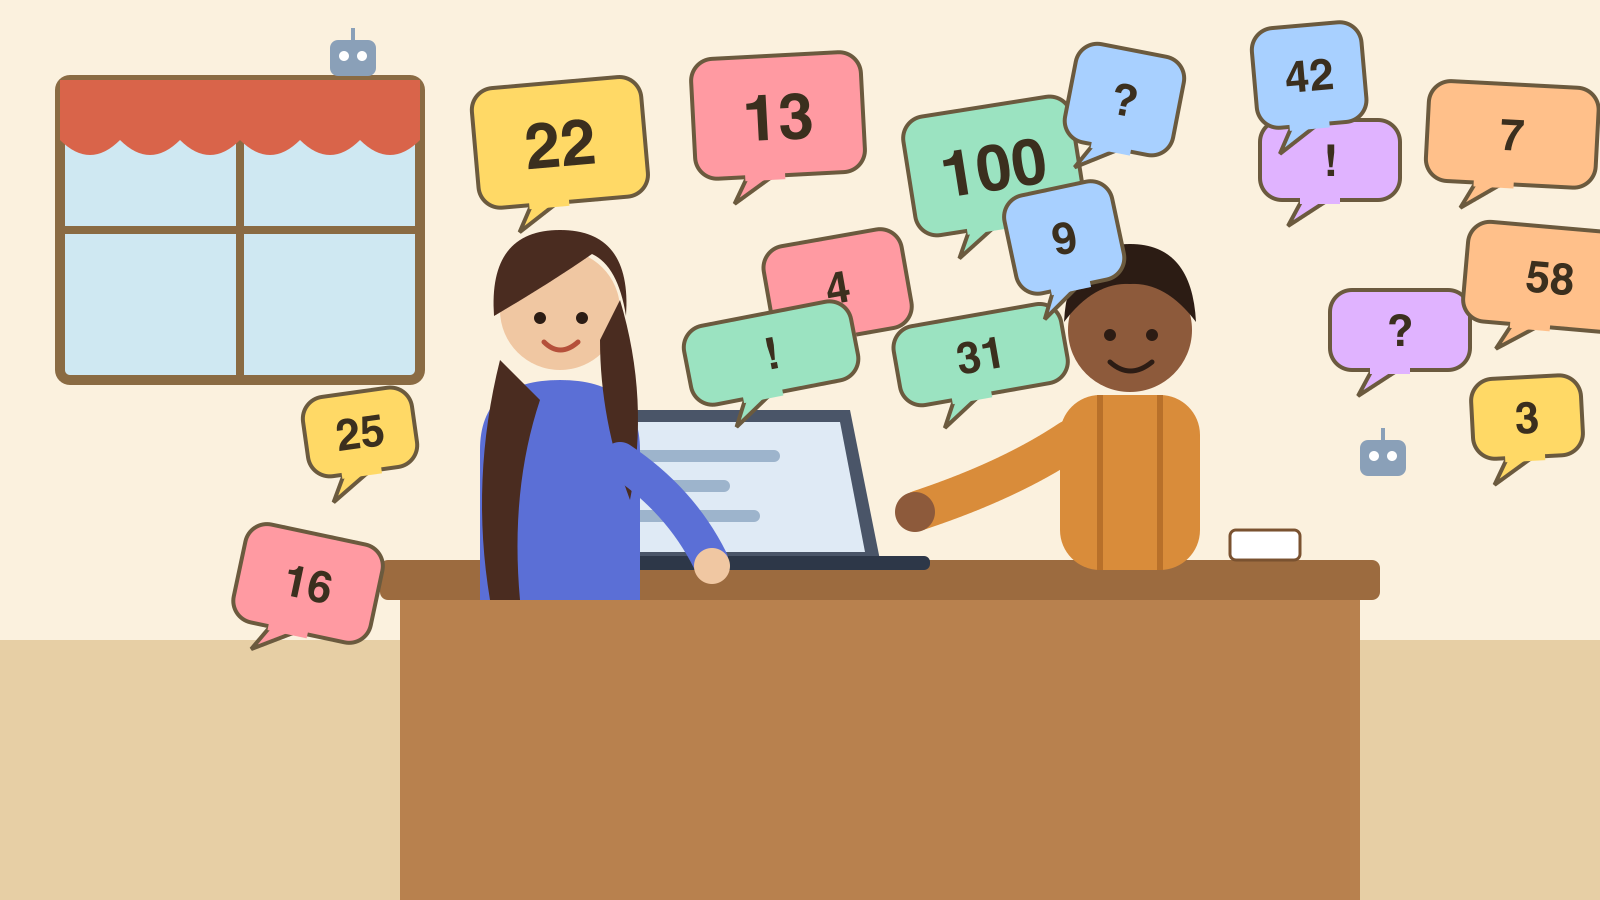
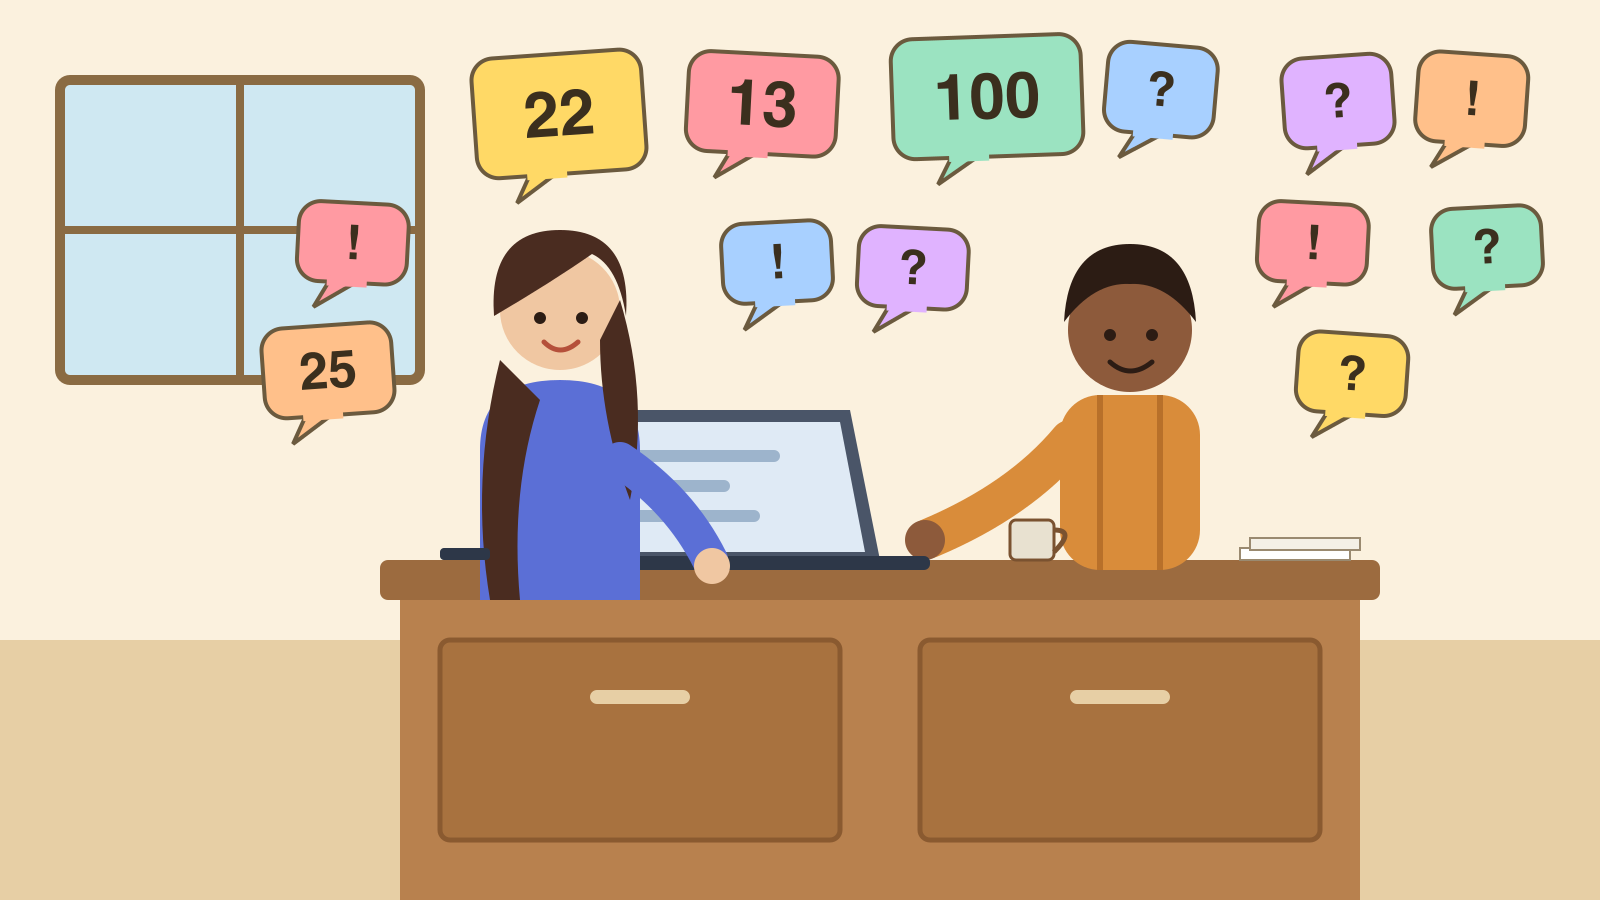
[new-article] Part 5: apply Fable review findings 1–11 (handoff 06)
Ref: ~/code/main/streams/new-article/handoffs/06-part-5-apply-fable-review.md

diff --git a/_posts/2026-10-12-modern-software-for-small-businesses-and-nonprofits-part-5-scope-creep-during-the-ai-age.md b/_posts/2026-10-12-modern-software-for-small-businesses-and-nonprofits-part-5-scope-creep-during-the-ai-age.md
@@ -16,11 +16,11 @@ tags:
   - human in the loop
   - ai-assisted development
 image: /images/modern-software-part5-scope-creep.png
-excerpt: "AI agents make it cheap to start things, and they ask a lot of questions along the way. I now have around 100 things going on in one project and I'm the non-technical people manager with nobody to manage. This is what scope creep looks like in the AI age, from two projects of my own."
+excerpt: "AI agents made it cheap to start things, so the list of things in flight grows faster than one person can follow. Two projects of my own, 22 then 13 then around 100 open items, and what I'm taking from it: name the problem, do fewer projects, stay in the details."
 ---
 
 <p class="align-center">
-  <img src="/images/modern-software-part5-scope-creep.png" alt="Illustration: a young woman engineer at a laptop working with a small-business owner at a shop counter, surrounded by a growing swarm of speech bubbles from AI agents carrying numbers like 22, 13 and 100" style="max-width: 100%; height: auto;" />
+  <img src="/images/modern-software-part5-scope-creep.png" alt="Illustration: a young woman engineer at a laptop working with a small-business owner at a desk, surrounded by a growing swarm of speech bubbles from AI agents carrying numbers like 22, 13 and 100" style="max-width: 100%; height: auto;" />
 </p>
 
 This is Part 5 of the [Modern Software for Small Businesses and Nonprofits](https://feroshjacob.github.io/series/modern-software-small-businesses-nonprofits/) series. This one is a personal reflection, not research.
@@ -29,13 +29,13 @@ AI agents made building software cheaper. They did not make keeping track of it 
 
 ## The short version
 
-AI agents ask good questions, build quickly and never get tired, so the number of things in flight grows faster than a person can follow. In both of my projects I ended up responsible for work I no longer understood in detail. I don't have a fix. I do think naming the problem is the first step.
+AI agents ask good questions, build quickly and never get tired, so the number of things in flight grows faster than a person can follow. In both projects the list of open items grew faster than my understanding of them, and I want to be closer to the details than I am. I don't have a fix yet. I do think naming the problem is the first step.
 
-## What happened when my agent kept asking questions?
+## Scenario 1: what happened when my agent kept asking the client questions?
 
 I was working with a client, and we made our first release. Along with the release notes, I had 22 questions that my Claude Code wanted to ask the client. I had inherited the codebase from another team, so there was a lot the agent could not know on its own.
 
-The client replied to all 22 questions, along with more comments and answers on the release. We both admitted that we use AI tools to draft our emails. To be honest, we were both proud of our AI usage.
+The client replied to all 22 questions, along with more comments and answers on the release. We both acknowledged that we use AI tools to draft our emails. To be honest, we were both proud of our AI usage.
 
 By release 2, Claude Code had 13 more questions, on top of the follow-up to the first 22. By then the agent was dominating my email.
 
@@ -47,15 +47,15 @@ In my previous careers, if we wanted to track 25 such things, I am sure we would
 
 Now it is me, an inbox and an agent.
 
-## What happened when I built an SEO tool with agents?
+## Scenario 2: what happened when I built an SEO tool with agents?
 
 I had this wonderful idea to build an SEO tool, the one I described in [Part 4](https://feroshjacob.github.io/posts/2026/10/05/modern-software-for-small-businesses-and-nonprofits-part-4-providing-affordable-seo-for-small-business-using-jev-part-1). It creates business profiles in a semi-automated fashion, to help small businesses have affordable SEO.
 
-As usual, I used my AI agents. I started with a $20 Codex subscription, which hit its limit about every 30 minutes, and ended up on my Claude $200 subscription. The agent built something, asked me questions with recommendations, and of course I went with them. Finally, we had an app running on my laptop.
+As usual, I used my AI agents. I started with a $20 Codex subscription, which, the way I was using it, hit its limit about every 30 minutes, and ended up on my Claude $200 subscription. The agent built something, asked me questions with recommendations, and of course I went with them. Finally, we had an app running on my laptop.
 
 Then I had a problem. First, I didn't know how to use it. When I clicked a button, I didn't know whether the button was broken or was not supposed to work yet. Agents also sometimes won't build, even when you say "build it". They may need another "go".
 
-And since I was busy building many things, I had no time to test, because I was leveraging agents to test as well. I wasn't testing and I wasn't "actually" building, so I was very far from my own project. I know very little about it, because the scope was just too big to handle next to many other projects.
+And since I was busy building many things, I had no time to test, because I was leveraging agents to test as well. I am not testing and I am not "actually" building, so I am very far from my own project. I know very little about it, because the scope is just too big to handle next to many other projects.
 
 ## Is this an isolated incident?
 
@@ -65,6 +65,6 @@ How do we solve this? I don't really have an answer. But as with many problems, 
 
 ## What do I take from the two scenarios?
 
-**From the first one:** we all knew this would happen. At some point our AI agents will talk to other people's AI agents, and we should watch out for the traps. An agent from an e-commerce company will be optimized to make money and sell products. The customer's agent is optimized to find cheap deals. Who is going to win? Let the future unfold.
+**Scenario 1:** we all knew this would happen. At some point our AI agents will talk to other people's AI agents, and we should watch out for the traps. Take an online store as an example: its agent will be optimized to sell. The customer's agent is optimized to find cheap deals. Who wins? Let the future unfold.
 
-**From the second one:** maybe we should do fewer projects, so we can stay in the details of all of them. Maybe this is a learning process. We do things, we make mistakes, next time we avoid them, fix them and adapt. Slowly we get things right with the new tools.
+**Scenario 2:** maybe we should do fewer projects, so we can stay in the details of all of them. Maybe this is a learning process. We do things, we make mistakes, next time we avoid them, fix them and adapt. Slowly we get things right with the new tools.
